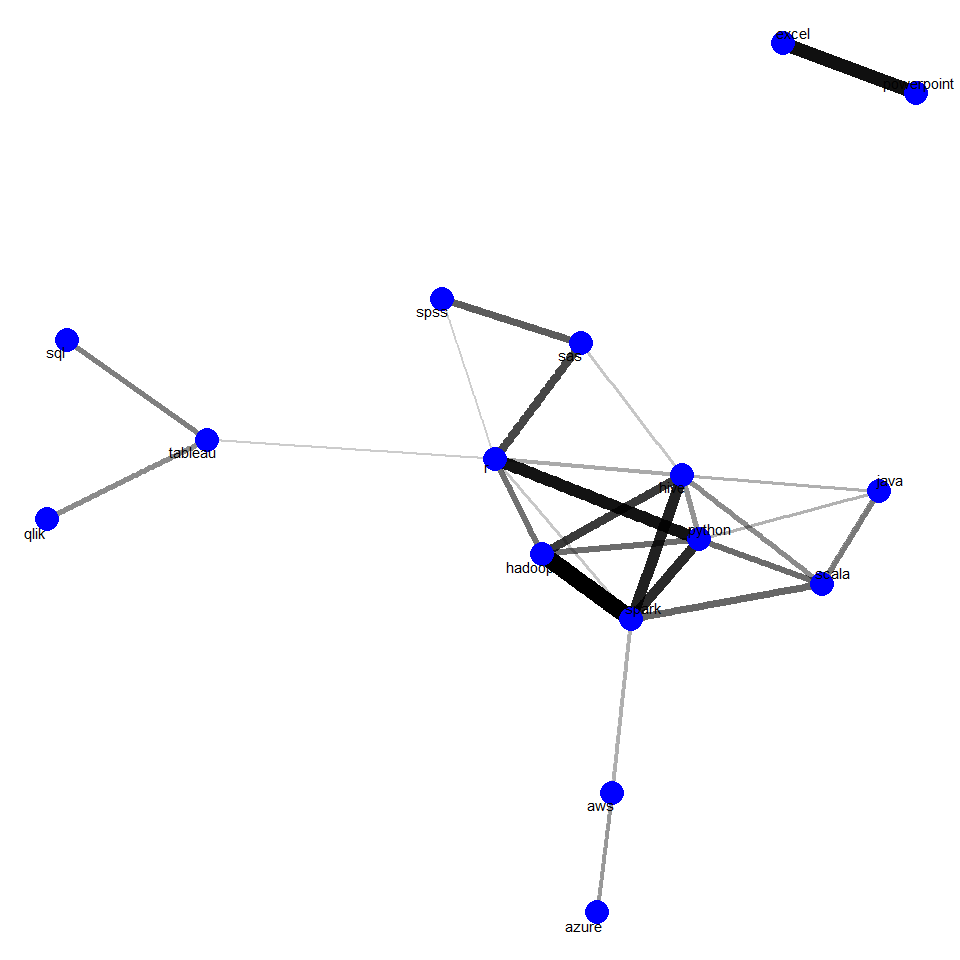
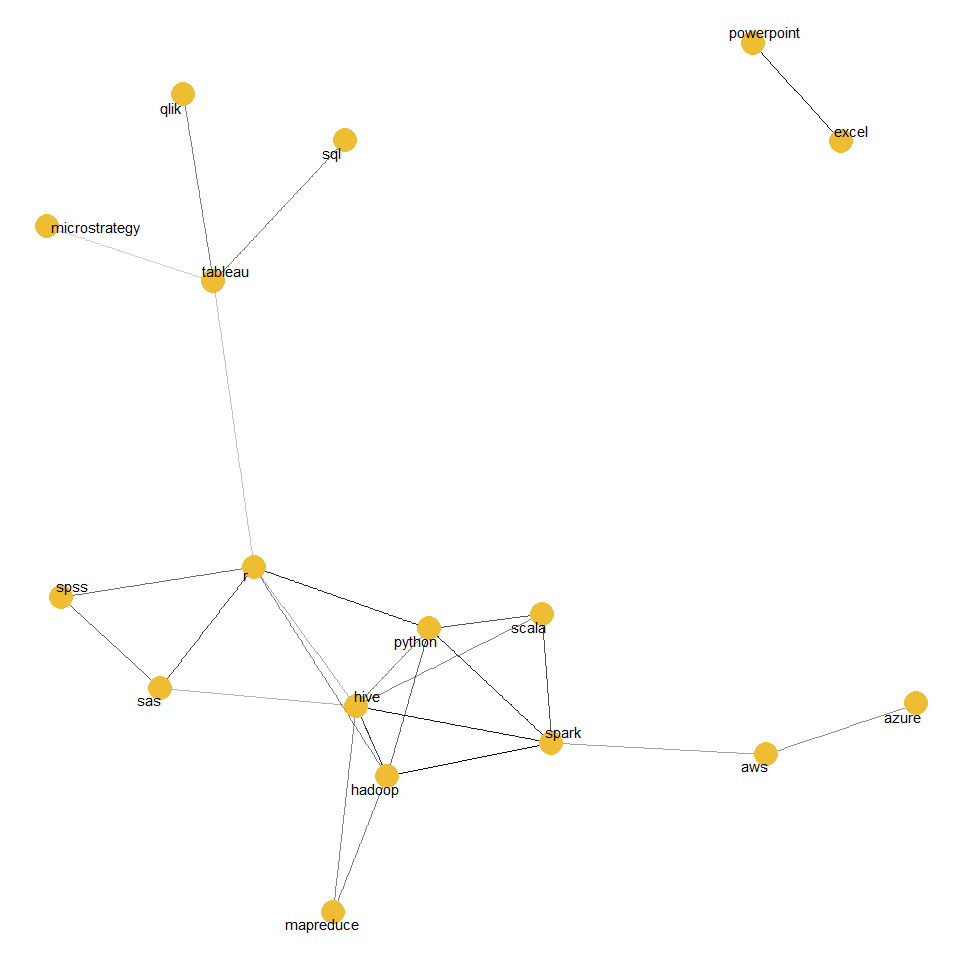
Add Queens colors to data viz

diff --git a/index.md b/index.md
@@ -1,4 +1,4 @@
--   This document was rendered last on 2017-10-13
+-   This document was rendered last on 2017-10-16
 
 *THIS PROJECT IS STILL UNDER CONSTRUCTION*
 ------------------------------------------
@@ -8,8 +8,8 @@ The intention will be to mask the code as the project approaches completion.
 Authors
 -------
 
--   To shower praise for ingenuity on the project and analysis, contact [Melody Liu](https://www.linkedin.com/in/meifei-melody-liu/)
--   For critiques & criticisms for things that couldn't be achieved in 4 weeks contact [Gage Sonntag](https://www.linkedin.com/in/gage-sonntag/)
+-   To shower praise for ingenuity on the project, contact [Melody Liu](https://www.linkedin.com/in/meifei-melody-liu/)
+-   For criticism of things we couldn't be achieved in 4 weeks contact [Gage Sonntag](https://www.linkedin.com/in/gage-sonntag/)
 
 Executive Summary
 -----------------
@@ -29,7 +29,7 @@ Gathering Data
 --------------
 
 -   Beautiful Soup & Selenium were used in Python to access [Indeed](https://www.indeed.ca/jobs?q=analytics&l=Toronto&start=10 "Indeed:Analytics Jobs in Toronto") and scrape unsponsored job titles, companies, and postings
--   `later number` unique jobs were scraped from the search terms: `analytics`,`etc`....
+-   1800 jobs were scraped from 9 search terms we believed captured the jobs most MMA students are pursuing.
 -   Jobs were passed from Python to R using [Feather](https://blog.rstudio.com/2016/03/29/feather/ "Feather: A Fast On-Disk Format for Data Frames for R and Python, powered by Apache Arrow")
 
 ``` r
@@ -71,17 +71,7 @@ data$search <- plyr::mapvalues(data$search,
 -   Our data returned 636 unique jobs within our search.
 -   It's clear a considerable amount of cleaning is in order
 
-| search                |  NumberUniquePostings|
-|:----------------------|---------------------:|
-| analytics             |                   100|
-| data analyst          |                    82|
-| data scientist        |                    90|
-| analytics strategy    |                    65|
-| data insights         |                    50|
-| marketing analytics   |                    71|
-| analytics reporting   |                    47|
-| machine learning      |                    57|
-| business intelligence |                    74|
+<img src="Figs/Jobs Found-1.png" style="display: block; margin: auto;" />
 
 -   We expect 200 jobs for each result, and removing the duplicate jobs in the order they were searched.
 -   Interestingly, searching 200 jobs in analytics returns only 113 unique jobs, some redundancy exists.
@@ -111,10 +101,10 @@ Exploratory Data Analysis
 
 -   Let's examine what our unigrams look like without any text processing
 
-<img src="Figs/unnamed-chunk-1-1.png" style="display: block; margin: auto;" />
+<img src="Figs/most frequent words-1.png" style="display: block; margin: auto;" />
 
--   Looking at a simple word frequency, we see out of the box our data is very messy
--   The boiler plate at the end of each job posting, encouraging people to apply, discussing company acolades and culture distort our analysis. Let's spend some time cleaning up *common stopwords*, *job specific words* and *html*
+-   Looking at at our most common words ignoring traditional stopwords, we see out of the box our data is very messy
+-   The boiler plate at the end of each job posting, encouraging people to apply, discussing company acolades and culture distort our analysis. Let's spend some time cleaning up *job specific words* and *html*
 
 <img src="Figs/Process unigrams Data-1.png" style="display: block; margin: auto;" />
 
@@ -122,35 +112,25 @@ Exploratory Data Analysis
 -   This is less fruitful. Likely some bi-grams have value that are less frequent. Words like **machine learning** or **project managment**
 -   Let's examine what proportion of jobs words appear in.
 
-| tokens      |    n|  Proportion|
-|:------------|----:|-----------:|
-| experience  |  507|   0.9135135|
-| will        |  480|   0.8648649|
-| data        |  472|   0.8504505|
-| team        |  442|   0.7963964|
-| business    |  435|   0.7837838|
-| skills      |  432|   0.7783784|
-| information |  409|   0.7369369|
-| search      |  384|   0.6918919|
-| working     |  378|   0.6810811|
-| support     |  355|   0.6396396|
+<img src="Figs/Unigram frequency-1.png" style="display: block; margin: auto;" />
 
--   We don't want to cluster on jobs that all mention the same word. Let's use a rule of thumb of using words that occur in &gt;2% and &lt;80% of postings for bigrams and unigrams.
--   Let's examine our bi-gram performance.
+-   Of our 25,000 words, 20,000 of them are only mentioned once. Some of this is having a reasonable 'small' dataset. Alot is due to the issues with parsing the variety of html pages from internal job websites.
+-   Let's use a 80%/2% rule of thumb on what to filter out.
 
-| tokens                          |      n|                                                                                      frequency|
-|:--------------------------------|------:|----------------------------------------------------------------------------------------------:|
-| communication skills            |    190|                                                                                      0.3423423|
-| computer science                |    179|                                                                                      0.3225225|
-| b.scorecardresearch.com p       |    143|                                                                                      0.2576577|
-| http b.scorecardresearch.com    |    143|                                                                                      0.2576577|
-| company city                    |    142|                                                                                      0.2558559|
-| selecting follow                |    142|                                                                                      0.2558559|
-| indeed.ca skip                  |    141|                                                                                      0.2540541|
-| problem solving                 |    140|                                                                                      0.2522523|
-| www.indeed.ca 2fcmp             |    139|                                                                                      0.2504505|
-| may like                        |    137|                                                                                      0.2468468|
-| - Some of our bi-grams are very |  inter|  esting. It's fruitful that our top two words are communication skills, then computer science.|
+<img src="Figs/unnamed-chunk-1-1.png" style="display: block; margin: auto;" />
+
+    ## # A tibble: 5 × 3
+    ##                      tokens     n Proportion
+    ##                       <chr> <int>      <dbl>
+    ## 1      communication skills   190  0.3435805
+    ## 2          computer science   180  0.3254973
+    ## 3                       c c   159  0.2875226
+    ## 4                       p c   147  0.2658228
+    ## 5 b.scorecardresearch.com p   143  0.2585895
+
+-   Some of our bi-grams are very interesting. It's fruitful that our top two words are communication skills, then computer science. Let's look at the histogram of what we will be clustering on.
+
+<img src="Figs/unnamed-chunk-3-1.png" style="display: block; margin: auto;" />
 
 <img src="Figs/skills mentioned-1.png" style="display: block; margin: auto;" /> - This seems to suggest excel, R and SQL are in high demand. Let's examine how inter related these concepts are. - But how often do these skills get mentioned in postings? <img src="Figs/frequency of skills-1.png" style="display: block; margin: auto;" /> - For the skills we have selected, analytics and data scientists have long tails. These are likely associated with the variety of big data tools we discuss: hive, scala, spark etc.
 
@@ -162,6 +142,6 @@ Exploratory Data Analysis
 
 -   Excel and Powerpoint are close companions, with powerpoint seeming not to have in common with much else.
 
-<img src="Figs/pairwise correlation-1.png" style="display: block; margin: auto;" /> - The network analysis shown shows a few unique clusters. Excel and powerpoint don't seem correlated with the rest of our tech stack, despite the frequent mentions of excel (which presumably are the noun and not the verb) - 3 clusters seem distinct: - Traditional Analytics - R, SAS, and the data viz suite of tools - Big Data - Hadoop, AWS, Scala and python - The Managers? - Excel and powerpoint - Our Trifecta of R, SQL, and excel don't seem as complimentary skills anymore
+<img src="Figs/pairwise correlation-1.png" style="display: block; margin: auto;" /> - The network analysis shown shows a few unique clusters. Excel and powerpoint don't seem correlated with the rest of our tech stack, despite the frequent mentions of excel (which presumably are the noun and not the verb) - 3 clusters seem present: - Traditional Analytics - R, SAS, and a smal relationship to - Big Data - Python leveraging Hadoop, AWS, Scala and spark - BI/Data Viz - Tableau, SQL and qlik - Our Trifecta of R, SQL, and excel don't seem as complimentary skills anymore
 
 -   Let's see if our clustering supports this
